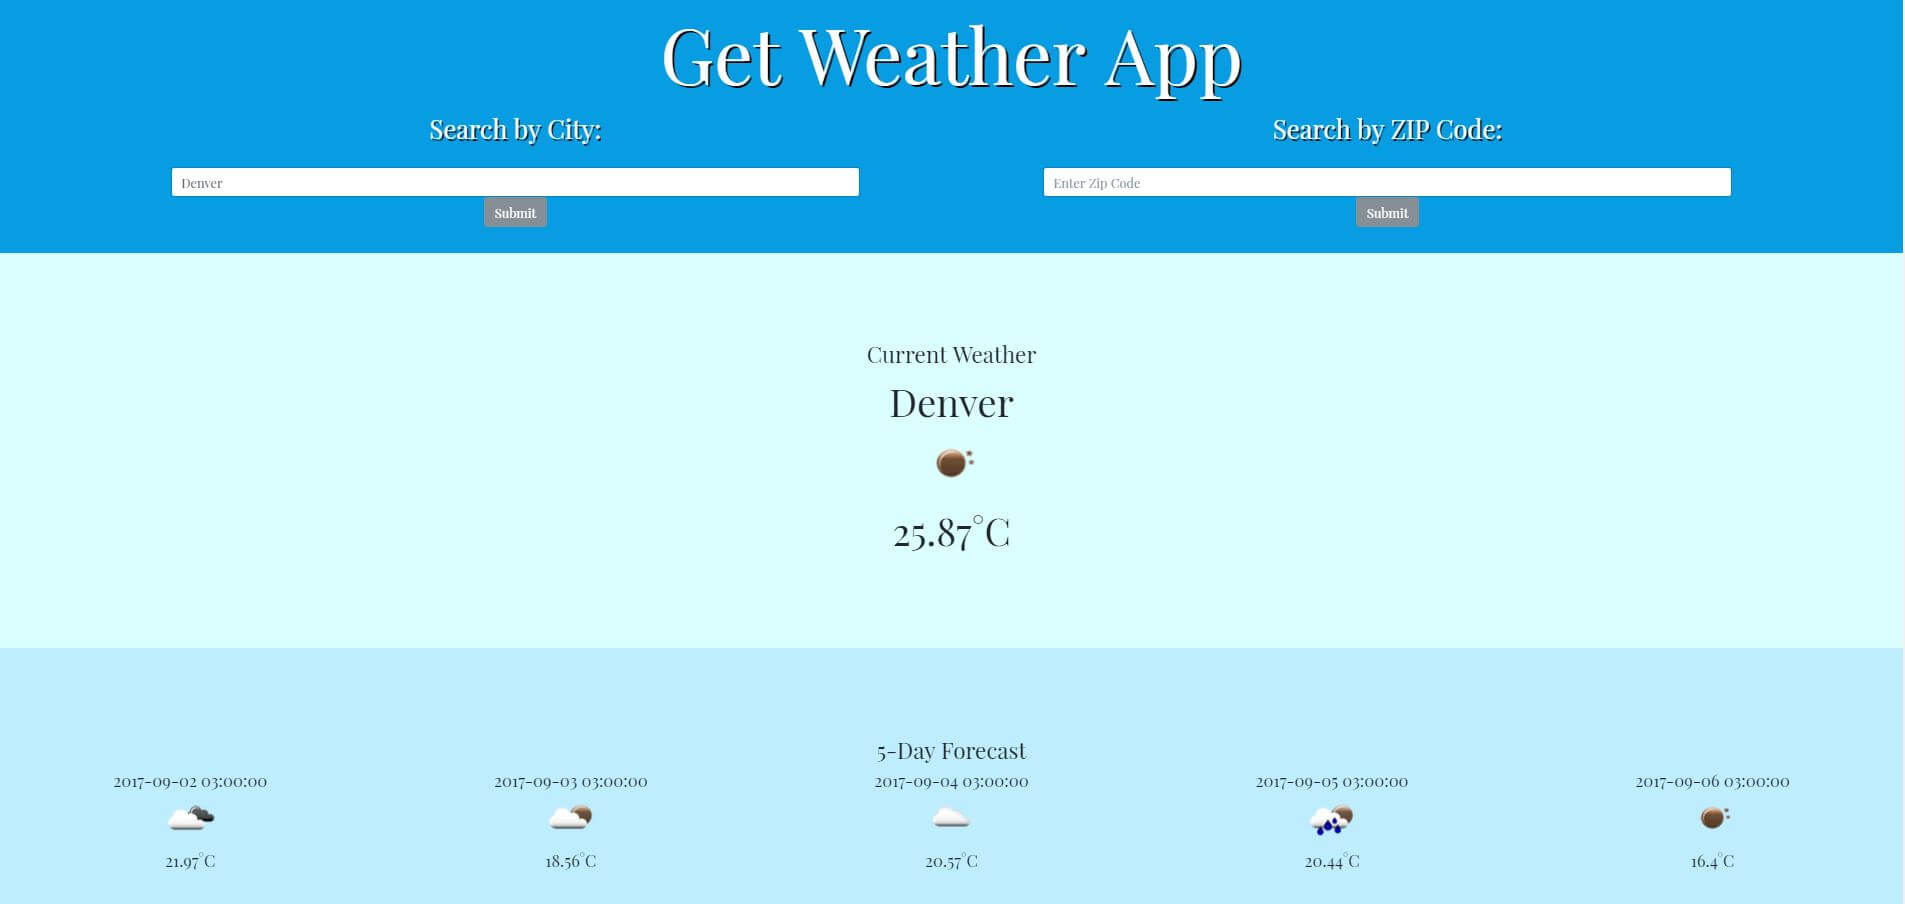
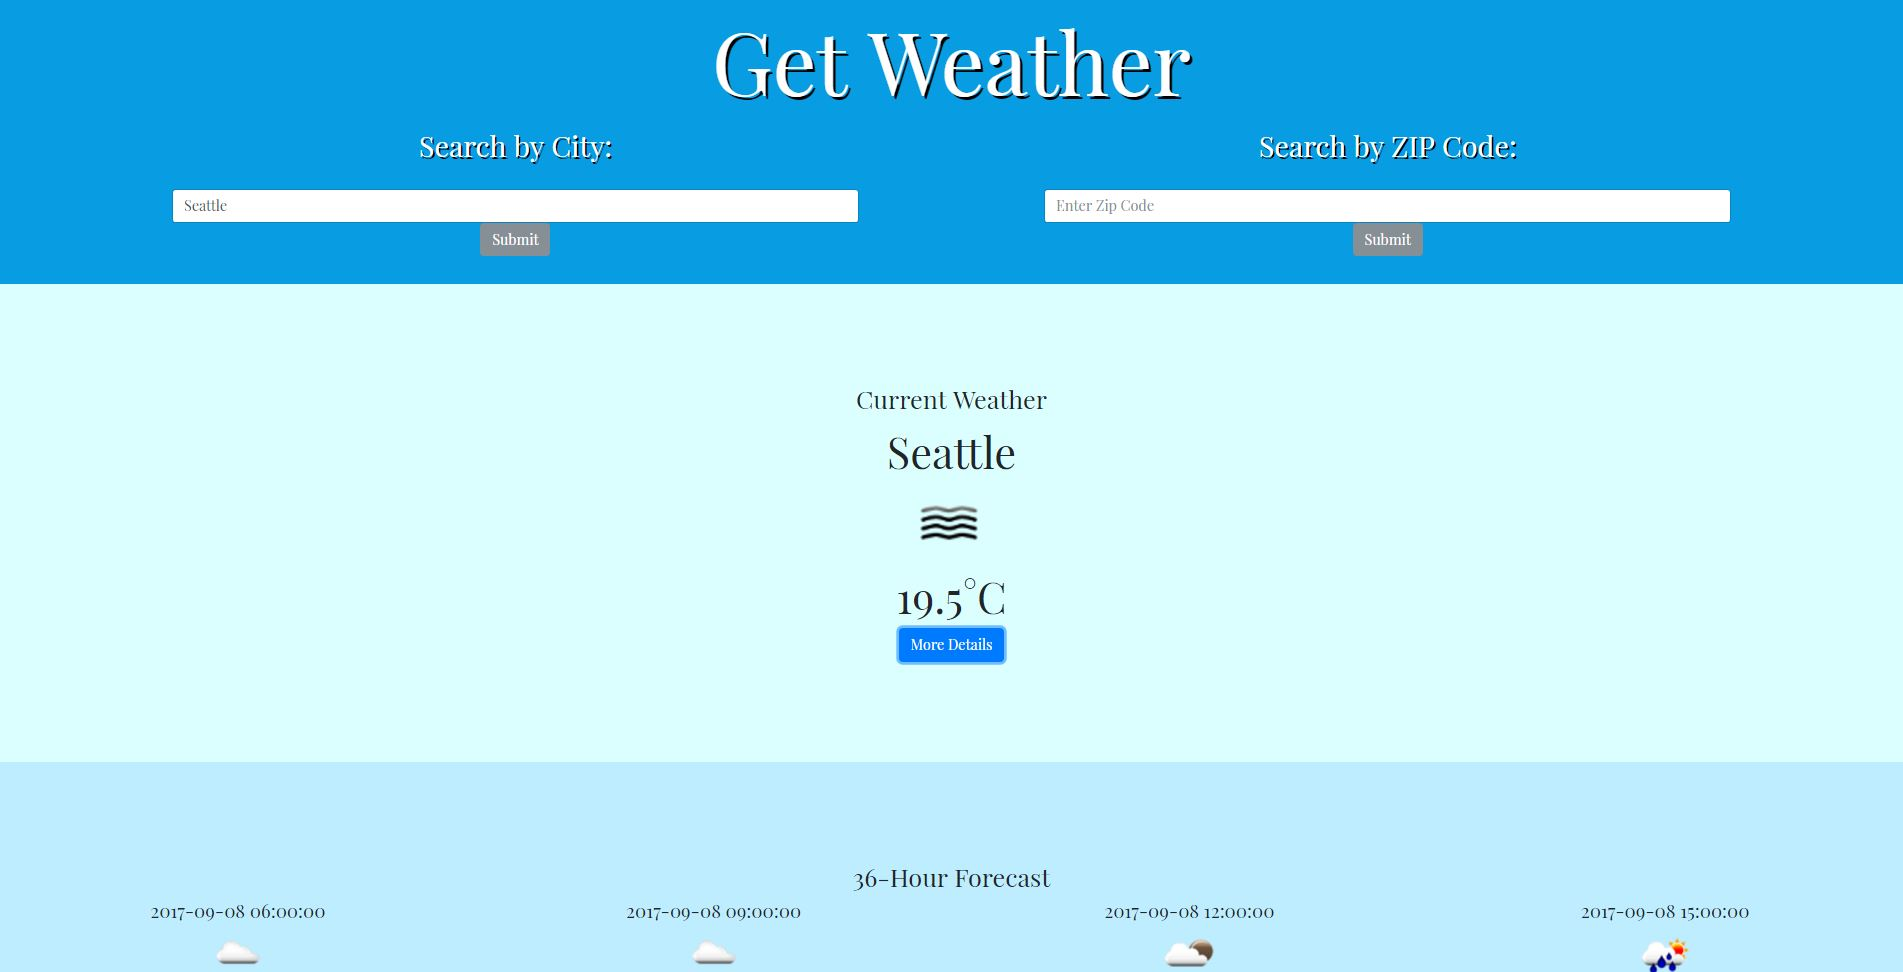
Updated weatherapp project

diff --git a/projects.html b/projects.html
@@ -86,7 +86,7 @@
             <div class="row text-center">
                 <div class="col-sm-4">
                     <h2>Weather App</h2>
-                    <p class="text-left"><br>This is my weather app that retrieves the current weather and also presents a 5-day forecast based on the location you enter. I am using the
+                    <p class="text-left"><br>This is my weather app that retrieves the current weather and also presents a 36-hour forecast based on the location you enter. I am using the
                                          OpenWeatherMap API to get the weather data.
                                          <br>
                                          <br>
